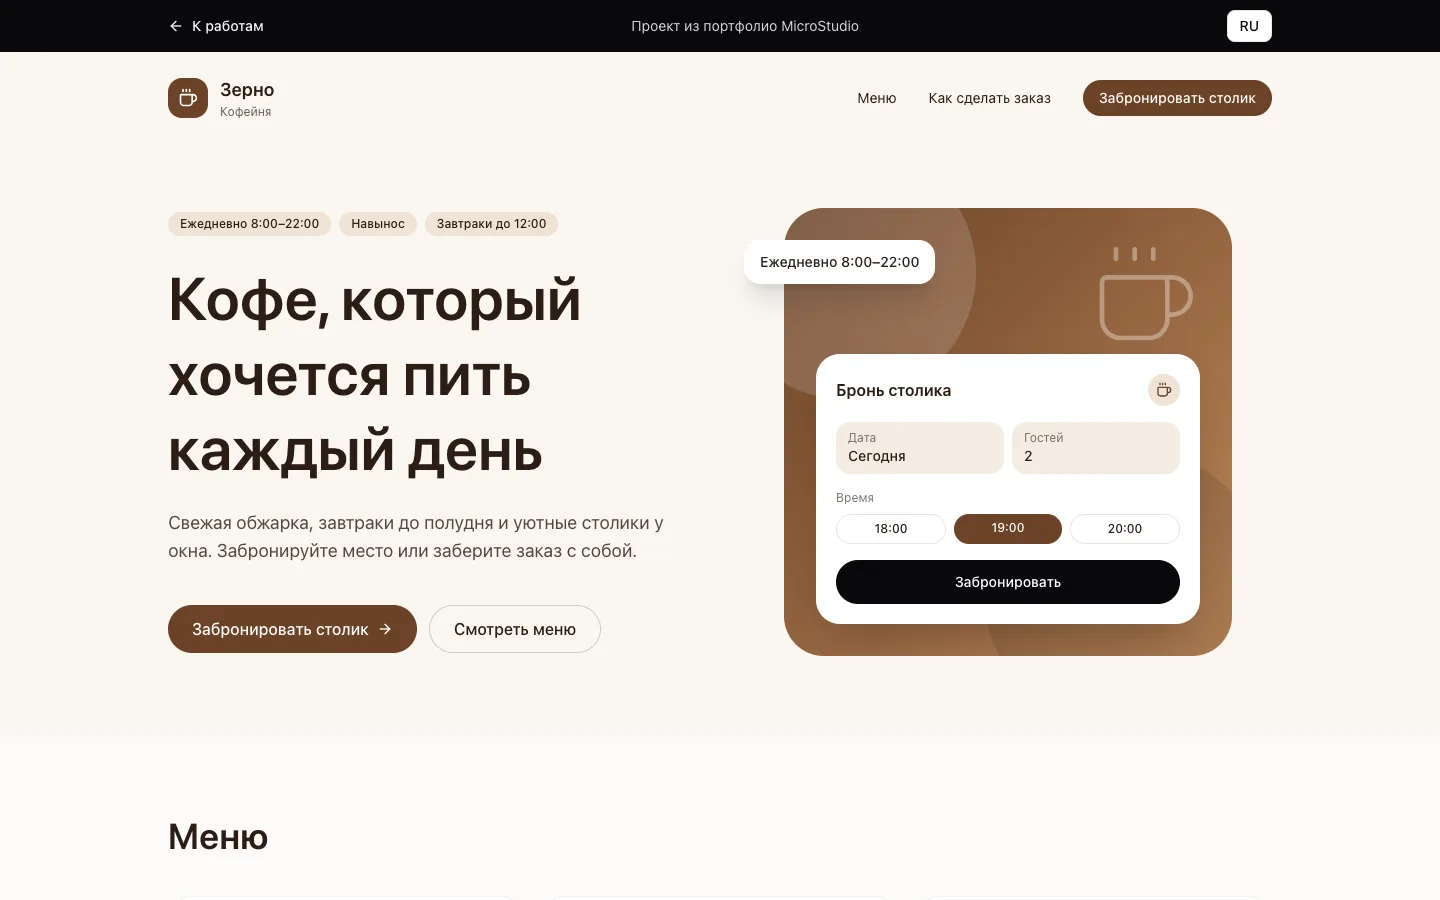
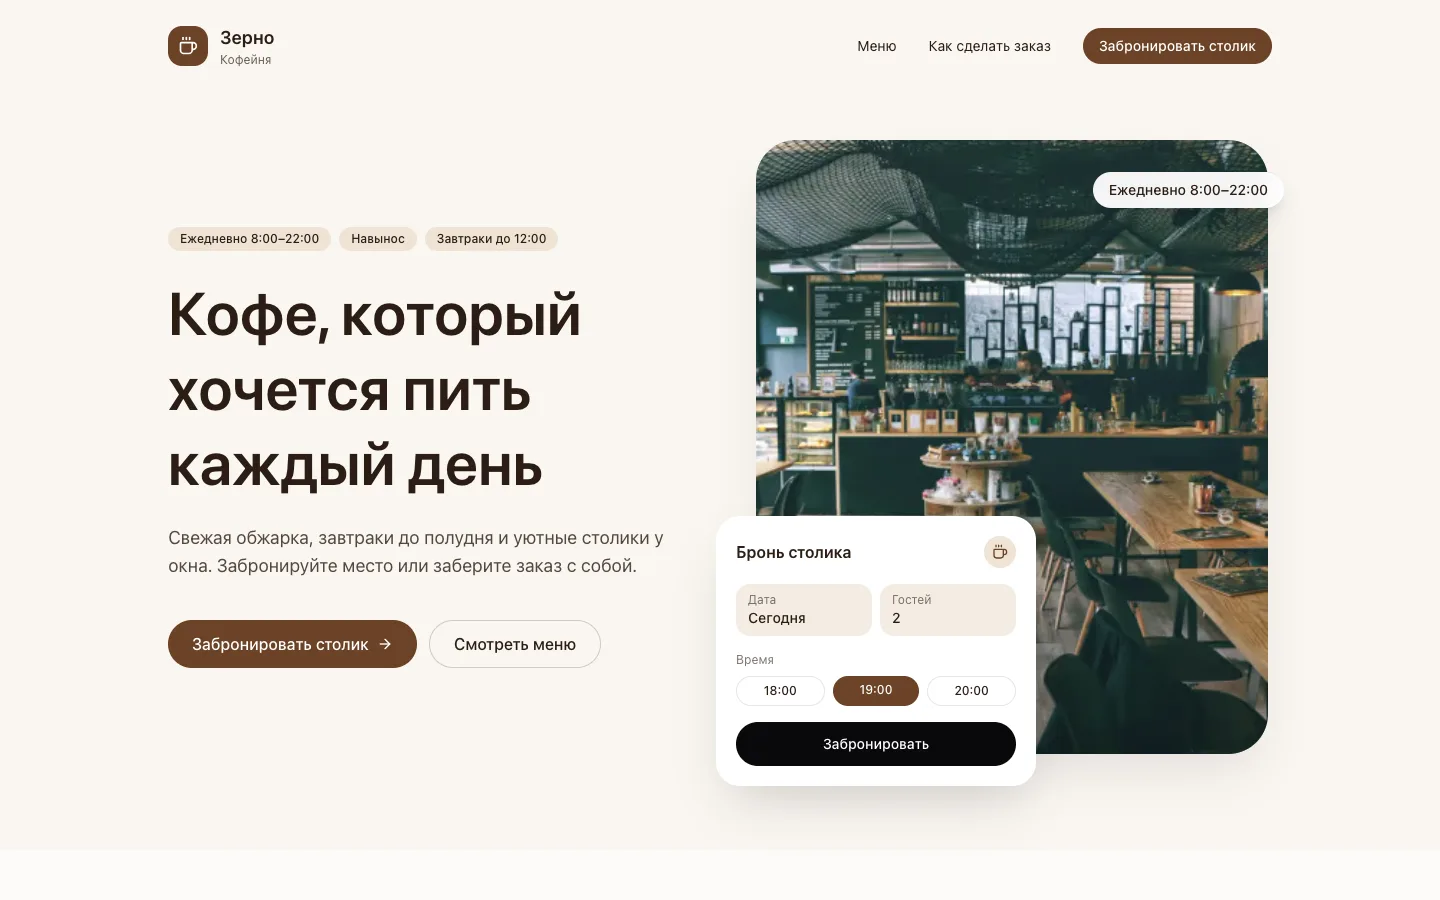
Use real photos in project sites and drop service sketches
- Project pages (/demo/*) get a photo hero and photo cards from
  Unsplash (free license, sources listed in the readme)
- Portfolio previews regenerated without the portfolio bar so they read
  as the project sites themselves
- Service rows return to the original clean artwork

diff --git a/src/components/demo/demo-landing.tsx b/src/components/demo/demo-landing.tsx
@@ -1,5 +1,6 @@
 "use client";
 import React from "react";
+import Image from "next/image";
 import Link from "next/link";
 import {
   ArrowLeft,
@@ -50,7 +51,7 @@ export function DemoLanding({ slug }: { slug: DemoSlug }) {
   return (
     <div style={style} className="min-h-screen bg-(--demo-bg) text-(--demo-ink)">
       {/* MicroStudio demo notice */}
-      <div className="bg-zinc-950 text-zinc-100">
+      <div data-demo-bar className="bg-zinc-950 text-zinc-100">
         <div className="mx-auto flex max-w-6xl flex-wrap items-center justify-between gap-x-6 gap-y-2 px-6 py-2.5 text-sm">
           <Link
             href="/#portfolio"
@@ -94,7 +95,7 @@ export function DemoLanding({ slug }: { slug: DemoSlug }) {
       </header>
 
       <main id="main">
-        <section className="mx-auto grid max-w-6xl items-center gap-12 px-6 pb-20 pt-8 md:grid-cols-2 md:pt-16">
+        <section className="mx-auto grid max-w-6xl items-center gap-12 px-6 pb-24 pt-8 md:grid-cols-2 md:gap-16 md:pt-12">
           <div>
             <ul className="flex flex-wrap gap-2">
               {demo.chips.map((chip) => (
@@ -127,50 +128,53 @@ export function DemoLanding({ slug }: { slug: DemoSlug }) {
             </div>
           </div>
 
-          <div aria-hidden className="relative mx-auto w-full max-w-md">
-            <div className="relative aspect-[4/5] overflow-hidden rounded-[2.5rem] bg-linear-to-br from-(--demo-accent) to-(--demo-accent-2) sm:aspect-square">
-              <div className="absolute -left-16 -top-16 size-64 rounded-full bg-white/15" />
-              <div className="absolute -bottom-20 -right-10 size-72 rounded-full bg-black/10" />
-              <Icon
-                className="absolute right-8 top-8 size-28 text-white/35"
-                strokeWidth={1}
+          <div aria-hidden className="relative mx-auto w-full max-w-lg">
+            <div className="relative aspect-[4/5] overflow-hidden rounded-[2.5rem] bg-(--demo-soft) shadow-2xl shadow-black/10 sm:aspect-[5/6]">
+              <Image
+                src={`/images/projects/${slug}-hero.webp`}
+                alt=""
+                fill
+                priority
+                sizes="(min-width: 768px) 512px, 100vw"
+                className="object-cover"
               />
-              <div className="absolute inset-x-5 bottom-5 rounded-3xl bg-white p-5 shadow-2xl sm:inset-x-8 sm:bottom-8">
-                <div className="flex items-center justify-between gap-3">
-                  <span className="font-semibold">{widget.title}</span>
-                  <span className="flex size-8 shrink-0 items-center justify-center rounded-full bg-(--demo-soft)">
-                    <Icon className="size-4 text-(--demo-accent)" />
-                  </span>
-                </div>
-                <div className="mt-4 grid grid-cols-2 gap-2 text-sm">
-                  {widget.rows.map((row) => (
-                    <div key={row.label} className="rounded-xl bg-(--demo-soft)/70 px-3 py-2">
-                      <span className="block text-xs opacity-60">{row.label}</span>
-                      <span className="block truncate font-medium">{row.value}</span>
-                    </div>
-                  ))}
-                </div>
-                <span className="mt-4 block text-xs opacity-60">{widget.optionsLabel}</span>
-                <div className="mt-2 flex gap-2">
-                  {widget.options.map((option, index) => (
-                    <span
-                      key={option}
-                      className={
-                        index === 1
-                          ? "flex-1 rounded-full bg-(--demo-accent) py-1.5 text-center text-xs font-medium text-white"
-                          : "flex-1 rounded-full border border-black/10 py-1.5 text-center text-xs font-medium"
-                      }
-                    >
-                      {option}
-                    </span>
-                  ))}
-                </div>
-                <span className="mt-4 block rounded-full bg-zinc-950 py-3 text-center text-sm font-medium text-white">
-                  {widget.button}
+              <div className="absolute inset-x-0 bottom-0 h-1/2 bg-linear-to-t from-black/35 to-transparent" />
+            </div>
+            <div className="absolute inset-x-4 -bottom-8 rounded-3xl bg-white p-5 shadow-2xl shadow-black/15 sm:inset-x-auto sm:-left-10 sm:w-80">
+              <div className="flex items-center justify-between gap-3">
+                <span className="font-semibold">{widget.title}</span>
+                <span className="flex size-8 shrink-0 items-center justify-center rounded-full bg-(--demo-soft)">
+                  <Icon className="size-4 text-(--demo-accent)" />
                 </span>
               </div>
+              <div className="mt-4 grid grid-cols-2 gap-2 text-sm">
+                {widget.rows.map((row) => (
+                  <div key={row.label} className="rounded-xl bg-(--demo-soft)/70 px-3 py-2">
+                    <span className="block text-xs opacity-60">{row.label}</span>
+                    <span className="block truncate font-medium">{row.value}</span>
+                  </div>
+                ))}
+              </div>
+              <span className="mt-4 block text-xs opacity-60">{widget.optionsLabel}</span>
+              <div className="mt-2 flex gap-2">
+                {widget.options.map((option, index) => (
+                  <span
+                    key={option}
+                    className={
+                      index === 1
+                        ? "flex-1 rounded-full bg-(--demo-accent) py-1.5 text-center text-xs font-medium text-white"
+                        : "flex-1 rounded-full border border-black/10 py-1.5 text-center text-xs font-medium"
+                    }
+                  >
+                    {option}
+                  </span>
+                ))}
+              </div>
+              <span className="mt-4 block rounded-full bg-zinc-950 py-3 text-center text-sm font-medium text-white">
+                {widget.button}
+              </span>
             </div>
-            <div className="absolute -left-3 top-8 rounded-2xl bg-white px-4 py-3 text-sm font-medium shadow-xl sm:-left-10">
+            <div className="absolute right-4 top-4 rounded-full bg-white/95 px-4 py-2 text-sm font-medium shadow-lg backdrop-blur sm:-right-4 sm:top-8">
               {demo.chips[0]}
             </div>
           </div>
@@ -180,16 +184,27 @@ export function DemoLanding({ slug }: { slug: DemoSlug }) {
           <div className="mx-auto max-w-6xl px-6">
             <h2 className="text-3xl font-semibold sm:text-4xl">{demo.menuTitle}</h2>
             <ul className="mt-10 grid gap-4 md:grid-cols-3">
-              {demo.menu.map((item) => (
+              {demo.menu.map((item, index) => (
                 <li
                   key={item.title}
-                  className="flex flex-col rounded-3xl border border-black/5 bg-white p-6 shadow-sm"
+                  className="flex flex-col overflow-hidden rounded-3xl border border-black/5 bg-white shadow-sm"
                 >
-                  <span className="text-lg font-semibold">{item.title}</span>
-                  <span className="mt-2 opacity-70">{item.text}</span>
-                  <span className="mt-6 inline-flex w-fit rounded-full bg-(--demo-soft) px-3 py-1 text-sm font-semibold text-(--demo-accent)">
-                    {item.meta}
-                  </span>
+                  <div className="relative aspect-[4/3]">
+                    <Image
+                      src={`/images/projects/${slug}-${index + 1}.webp`}
+                      alt={item.title}
+                      fill
+                      sizes="(min-width: 768px) 360px, 100vw"
+                      className="object-cover"
+                    />
+                  </div>
+                  <div className="flex flex-1 flex-col p-6">
+                    <span className="text-lg font-semibold">{item.title}</span>
+                    <span className="mt-2 opacity-70">{item.text}</span>
+                    <span className="mt-6 inline-flex w-fit rounded-full bg-(--demo-soft) px-3 py-1 text-sm font-semibold text-(--demo-accent)">
+                      {item.meta}
+                    </span>
+                  </div>
                 </li>
               ))}
             </ul>

diff --git a/src/locales/ru.ts b/src/locales/ru.ts
@@ -68,13 +68,6 @@ const ru = {
     discuss: "Обсудить задачу",
     audienceLabel: "Кому подойдёт",
     discussLabel: "Что можно обсудить",
-    visual: {
-      before: "До",
-      after: "После",
-      sponsored: "Реклама",
-      adCta: "Написать",
-      updates: ["Обновлены цены", "Добавлен раздел", "Исправлена форма"],
-    },
     items: [
       {
         id: "new",
@@ -352,7 +345,7 @@ const ru = {
         menu: [
           { title: "Капучино", text: "Двойной эспрессо и молоко", meta: "180 сом" },
           { title: "Флэт уайт", text: "Насыщенный и мягкий", meta: "200 сом" },
-          { title: "Сырники", text: "Со сметаной и ягодным соусом", meta: "280 сом" },
+          { title: "Круассан", text: "Свежая выпечка каждое утро", meta: "150 сом" },
         ],
         widget: {
           title: "Бронь столика",
@@ -411,7 +404,7 @@ const ru = {
         widget: {
           title: "Букет «Нежность»",
           rows: [
-            { label: "Доставка", value: "Сегодня до 20:00" },
+            { label: "Доставка", value: "Сегодня" },
             { label: "Открытка", value: "В подарок" },
           ],
           optionsLabel: "Размер",

diff --git a/src/components/sections/home/services-2.tsx b/src/components/sections/home/services-2.tsx
@@ -7,7 +7,6 @@ import { Badge } from "@/components/ui/badge";
 import { useLanguage } from "@/components/language-provider";
 import { selectService, type ServiceId } from "@/lib/service-select";
 import OfferCard from "./offer-card";
-import { ServiceVisual } from "./service-visual";
 import Image from "next/image";
 import Link from "next/link";
 
@@ -129,7 +128,7 @@ export default function ServicesSection2() {
                           tabIndex={-1}
                           aria-hidden
                           onClick={() => selectService(service.id as ServiceId)}
-                          className="@container relative block"
+                          className="block"
                         >
                           <Image
                             src={service.img}
@@ -139,9 +138,6 @@ export default function ServicesSection2() {
                             sizes="(min-width: 1024px) 580px, 100vw"
                             className="object-cover object-top transition-all duration-500 w-full aspect-[16/9]"
                           />
-                          <div className="absolute inset-0 flex items-center justify-center transition-transform duration-500 group-hover:scale-[1.02] motion-reduce:transform-none">
-                            <ServiceVisual id={service.id} />
-                          </div>
                         </Link>
                       </InView>
                     </CustomCursorElement>

diff --git a/src/locales/en.ts b/src/locales/en.ts
@@ -70,13 +70,6 @@ const en: typeof ru = {
     discuss: "Discuss your task",
     audienceLabel: "Who it’s for",
     discussLabel: "What we can discuss",
-    visual: {
-      before: "Before",
-      after: "After",
-      sponsored: "Sponsored",
-      adCta: "Message",
-      updates: ["Prices updated", "New section added", "Form fixed"],
-    },
     items: [
       {
         id: "new",
@@ -354,7 +347,7 @@ const en: typeof ru = {
         menu: [
           { title: "Cappuccino", text: "Double espresso and milk", meta: "180 KGS" },
           { title: "Flat white", text: "Rich and smooth", meta: "200 KGS" },
-          { title: "Syrniki", text: "With sour cream and berry sauce", meta: "280 KGS" },
+          { title: "Croissant", text: "Fresh pastry every morning", meta: "150 KGS" },
         ],
         widget: {
           title: "Book a table",
@@ -413,7 +406,7 @@ const en: typeof ru = {
         widget: {
           title: "“Tenderness” bouquet",
           rows: [
-            { label: "Delivery", value: "Today by 20:00" },
+            { label: "Delivery", value: "Today" },
             { label: "Card", value: "Free" },
           ],
           optionsLabel: "Size",

diff --git a/readme.md b/readme.md
@@ -32,3 +32,28 @@ pnpm typecheck && pnpm lint && pnpm build
 ## Адрес сайта
 
 Метаданные, `robots.txt` и `sitemap.xml` используют `NEXT_PUBLIC_SITE_URL`, а без неё — production-домен Vercel (`VERCEL_PROJECT_PRODUCTION_URL`). После подключения собственного домена задайте `NEXT_PUBLIC_SITE_URL` в настройках проекта Vercel.
+
+## Фотографии
+
+Фото на страницах проектов (`public/images/projects`) — с [Unsplash](https://unsplash.com), [лицензия Unsplash](https://unsplash.com/license) разрешает бесплатное коммерческое использование. Исходники:
+
+- `coffee-hero.webp` — https://images.unsplash.com/photo-1521017432531-fbd92d768814
+- `coffee-1.webp` — https://images.unsplash.com/photo-1534234757579-8ad69d218ad4
+- `coffee-2.webp` — https://images.unsplash.com/photo-1502462041640-b3d7e50d0662
+- `coffee-3.webp` — https://images.unsplash.com/photo-1555507036-ab1f4038808a
+- `school-hero.webp` — https://images.unsplash.com/photo-1522202176988-66273c2fd55f
+- `school-1.webp` — https://images.unsplash.com/photo-1543269865-cbf427effbad
+- `school-2.webp` — https://images.unsplash.com/photo-1434030216411-0b793f4b4173
+- `school-3.webp` — https://images.unsplash.com/photo-1577896851231-70ef18881754
+- `flowers-hero.webp` — https://images.unsplash.com/photo-1487070183336-b863922373d4
+- `flowers-1.webp` — https://images.unsplash.com/photo-1623406795110-99f1c4325084
+- `flowers-2.webp` — https://images.unsplash.com/photo-1619962992057-be492a5816f6
+- `flowers-3.webp` — https://images.unsplash.com/photo-1642751652611-bb9a7cad58a3
+- `cleaning-hero.webp` — https://images.unsplash.com/photo-1758273238415-01ec03d9ef27
+- `cleaning-1.webp` — https://images.unsplash.com/photo-1758273705627-937374bfa978
+- `cleaning-2.webp` — https://images.unsplash.com/photo-1758272421751-963195322eaa
+- `cleaning-3.webp` — https://images.unsplash.com/photo-1585421514284-efb74c2b69ba
+- `fitness-hero.webp` — https://images.unsplash.com/photo-1518611012118-696072aa579a
+- `fitness-1.webp` — https://images.unsplash.com/photo-1517130038641-a774d04afb3c
+- `fitness-2.webp` — https://images.unsplash.com/photo-1518644961665-ed172691aaa1
+- `fitness-3.webp` — https://images.unsplash.com/photo-1599901860904-17e6ed7083a0
